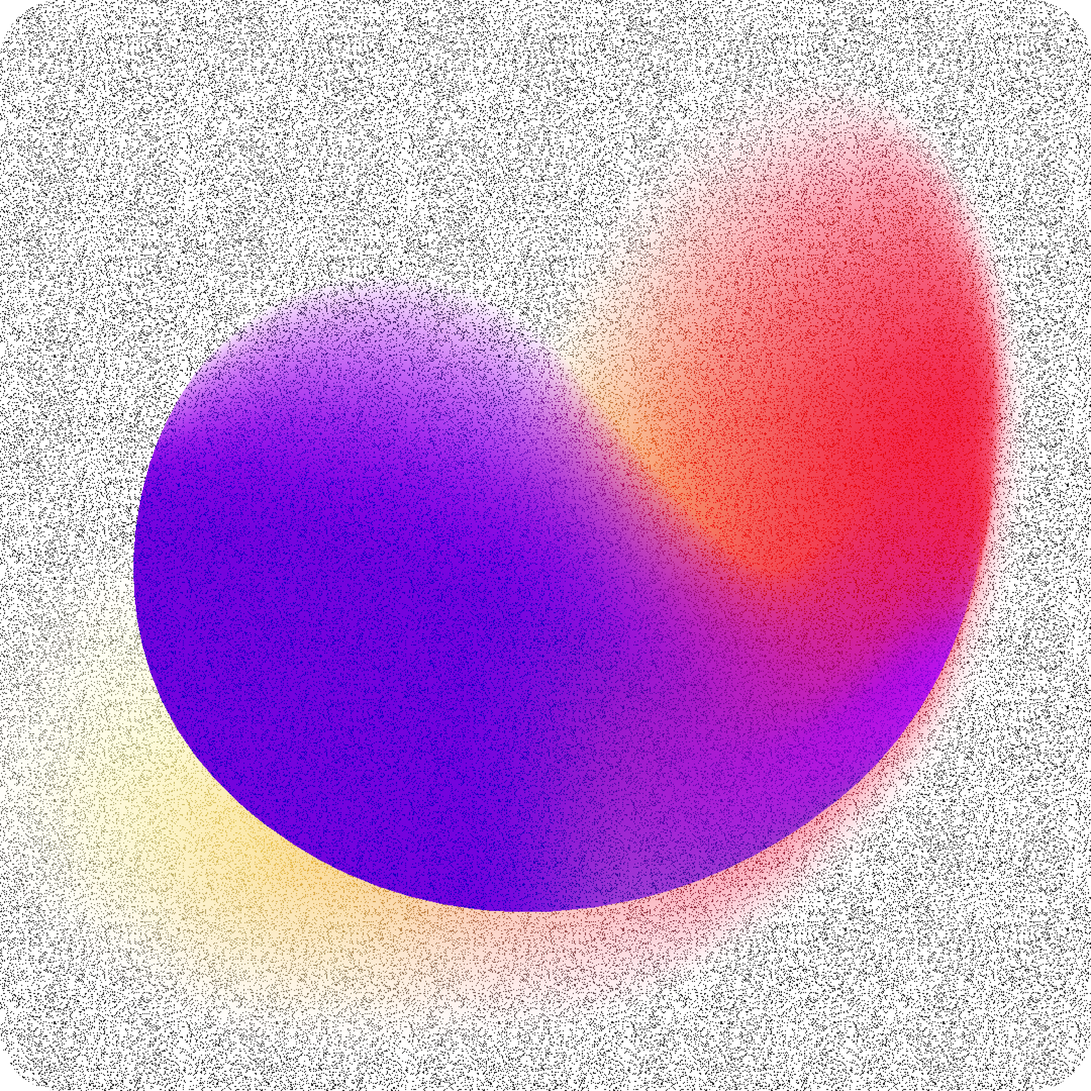
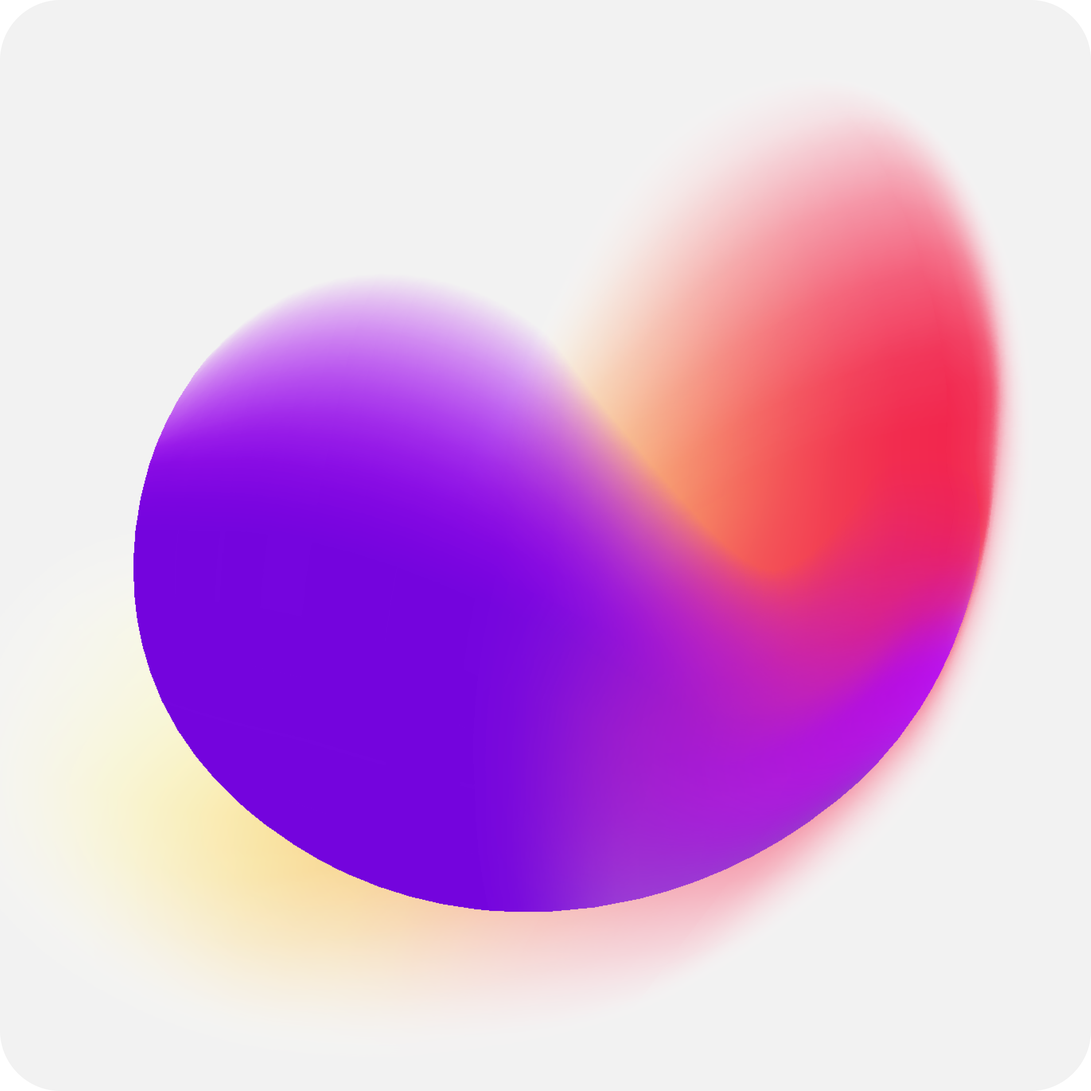
Something...?

Changed region(s): [[0.0, 0.0, 1.0, 1.0]]

diff --git a/src/App.jsx b/src/App.jsx
@@ -1,15 +1,60 @@
-import { useState } from 'react'
 import './App.css'
 
-import Grad_09 from "./assets/Grad_09.png"
-
-function App() {
-  const [count, setCount] = useState(0)
-
+const App = () => {
   return (
     <>
-      <div style={{background: "#fff"}}>
-        <img src={Grad_09} />
+      <div className='navbar'></div>
+      
+      <div className='hero-container'>
+        <div className='hero'>
+          <div className='blob-section'>
+            <div className='grad-9'></div>
+          </div>
+          <div className='info-section'>
+            <div>
+              <div className='name'>
+                Yunfan Yang
+              </div>
+              <div className='headline'>
+                <p>Software Development Intern, AGvisorPRO Inc.</p>
+                <p>BSc Computer Science, University of Calgary</p>
+                {/* <p>Calgary Alberta Canada</p> */}
+              </div>
+            </div>
+          </div>
+        </div>
+      </div>
+
+      <div className='greeting-container'>
+        <div className='greeting'>
+          <div className='greeting-short'>
+            Nice to meet you
+          </div>
+
+          <div className='greeting-headline'>
+            Hey! Welcome to my little space on the Internet. I'm Yunfan, I live and code.
+          </div>
+
+          <div className='bio'>
+            I focus on mainly web development.
+            As a computer science student, my disciplines drive me exploring all different areas in the fields of Computer Science, Data Science and Software Engineering. 
+          </div>
+
+          <div className='bio'>
+            I am always passionate about learning new technologies and building cool stuff.
+            You will be able to find some of my works here. They are rarely in the same areas as my interests are always changing from time to time. But I hope you will find something interesting.
+          </div>
+        </div>
+
+        <div className='greeting-blob'>
+          <div className='grad-18'></div>
+        </div>
+      </div>
+
+      <div className='footer'>
+        <div className='footer-content'>
+          <p>&copy; Yunfan Yang 2023</p>
+        </div>
       </div>
     </>
   )

diff --git a/src/App.css b/src/App.css
@@ -1,0 +1,79 @@
+@tailwind base;
+@tailwind components;
+@tailwind utilities;
+
+@layer utilities {
+  .navbar {
+    @apply h-20 bg-transparent fixed;
+  }
+
+  .hero-container {
+    @apply -z-50 bg-[#f2f2f2] overflow-hidden;
+  }
+
+  .hero{
+    @apply max-w-7xl mx-auto h-[46rem] relative flex items-start justify-end;
+  }
+
+  .blob-section {
+    @apply w-[40%] h-full relative;
+  }
+
+  .info-section {
+    @apply w-[60%] h-full relative flex items-center justify-center px-12;
+  }
+
+  .grad-9 {
+    @apply h-[70rem] w-[80rem] absolute -top-[2rem] -right-[17rem];
+    background-image: url("./assets/Grad_09.png");
+    background-repeat: no-repeat;
+    background-size: contain;
+  }
+
+  .name {
+    @apply font-["Chromate"] text-[4.6rem] tracking-tight text-[#1a1a1a] leading-none mb-5 mt-4;
+  }
+
+  .headline {
+    @apply font-["Inter"] text-[1.46rem] tracking-tight text-[#4a4a4a] leading-normal ml-0.5;
+  }
+
+  .greeting-container {
+    @apply max-w-7xl mx-auto h-[40rem] mt-20 flex;
+  }
+
+  .greeting {
+    @apply w-2/3;
+  }
+
+  .greeting-short {
+    @apply mt-8 mb-6 text-lg uppercase;
+  }
+
+  .greeting-headline {
+    @apply font-["Chromate"] text-5xl leading-tight mb-6 tracking-tight;
+  }
+
+  .bio {
+    @apply font-["Inter"] tracking-tight text-[1.42rem] mb-6;
+  }
+
+  .greeting-blob {
+    @apply relative w-1/3 overflow-hidden;
+  }
+
+  .grad-18 {
+    @apply h-[30rem] w-[30rem] absolute top-10 -left-4;
+    background-image: url("./assets/Grad_18.png");
+    background-repeat: no-repeat;
+    background-size: contain;
+  }
+
+  .footer {
+    @apply max-w-7xl mx-auto h-[5rem];
+  }
+
+  .footer-content {
+    @apply flex justify-center items-center h-full tracking-tighter;
+  }
+}

diff --git a/index.html b/index.html
@@ -4,7 +4,7 @@
     <meta charset="UTF-8" />
     <link rel="icon" type="image/svg+xml" href="/vite.svg" />
     <meta name="viewport" content="width=device-width, initial-scale=1.0" />
-    <title>Vite + React</title>
+    <title>Yunfan Yang</title>
   </head>
   <body>
     <div id="root"></div>

diff --git a/src/index.css b/src/index.css
@@ -1,4 +1,10 @@
 @tailwind base;
+:root {
+    -webkit-user-select: none;
+    -moz-user-select: none;
+    -ms-user-select: none;
+    user-select: none;
+}
+
 @tailwind components;
 @tailwind utilities;
-
